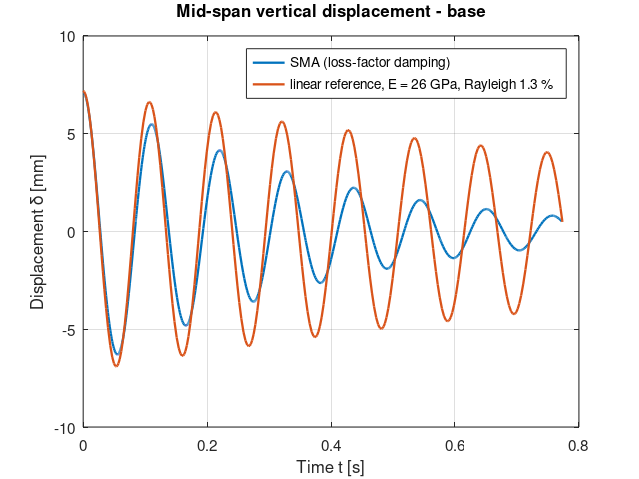
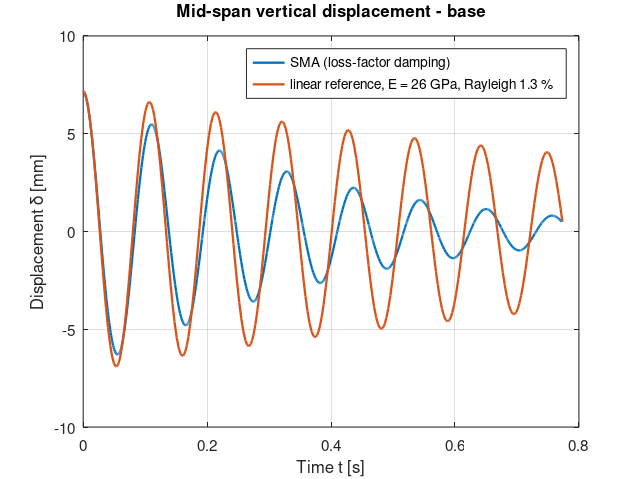
Regenerate docs figures with the || default (base, composite, field plot via smooth_mean2d); drop docs/.gitkeep

diff --git a/tests/run_tests.m b/tests/run_tests.m
@@ -65,7 +65,7 @@ if strcmp(mode,'full')
     % 7. full base case: peaks vs thesis Fig. 4.3 and the stored reference run of the Octave port
     r = run_case('base','figures','save','save_mat',false);
     pk = r.peaks(:,2)';
-    expect = [7.09 5.49 4.15 3.08 2.24 1.61];   % with the corrected (||) Newton loop; the original && gave 5.494 / 4.155 / 3.076
+    expect = [7.09 5.49 4.15 3.07 2.24 1.61];   % with the corrected (||) Newton loop; the original && gave 5.494 / 4.155 / 3.076
     check('base full run: ring-down peaks', numel(pk) >= 6 && all(abs(pk(1:6)-expect) < 0.02), ...
         sprintf('peaks [mm]: %s (expected %s; thesis Fig. 4.3: ~5.5 4.15 3.1 2.2 1.6 after the first)', mat2str(pk(1:min(6,end)),3), mat2str(expect)));
     r = run_case('composite','figures','save','save_mat',false);
